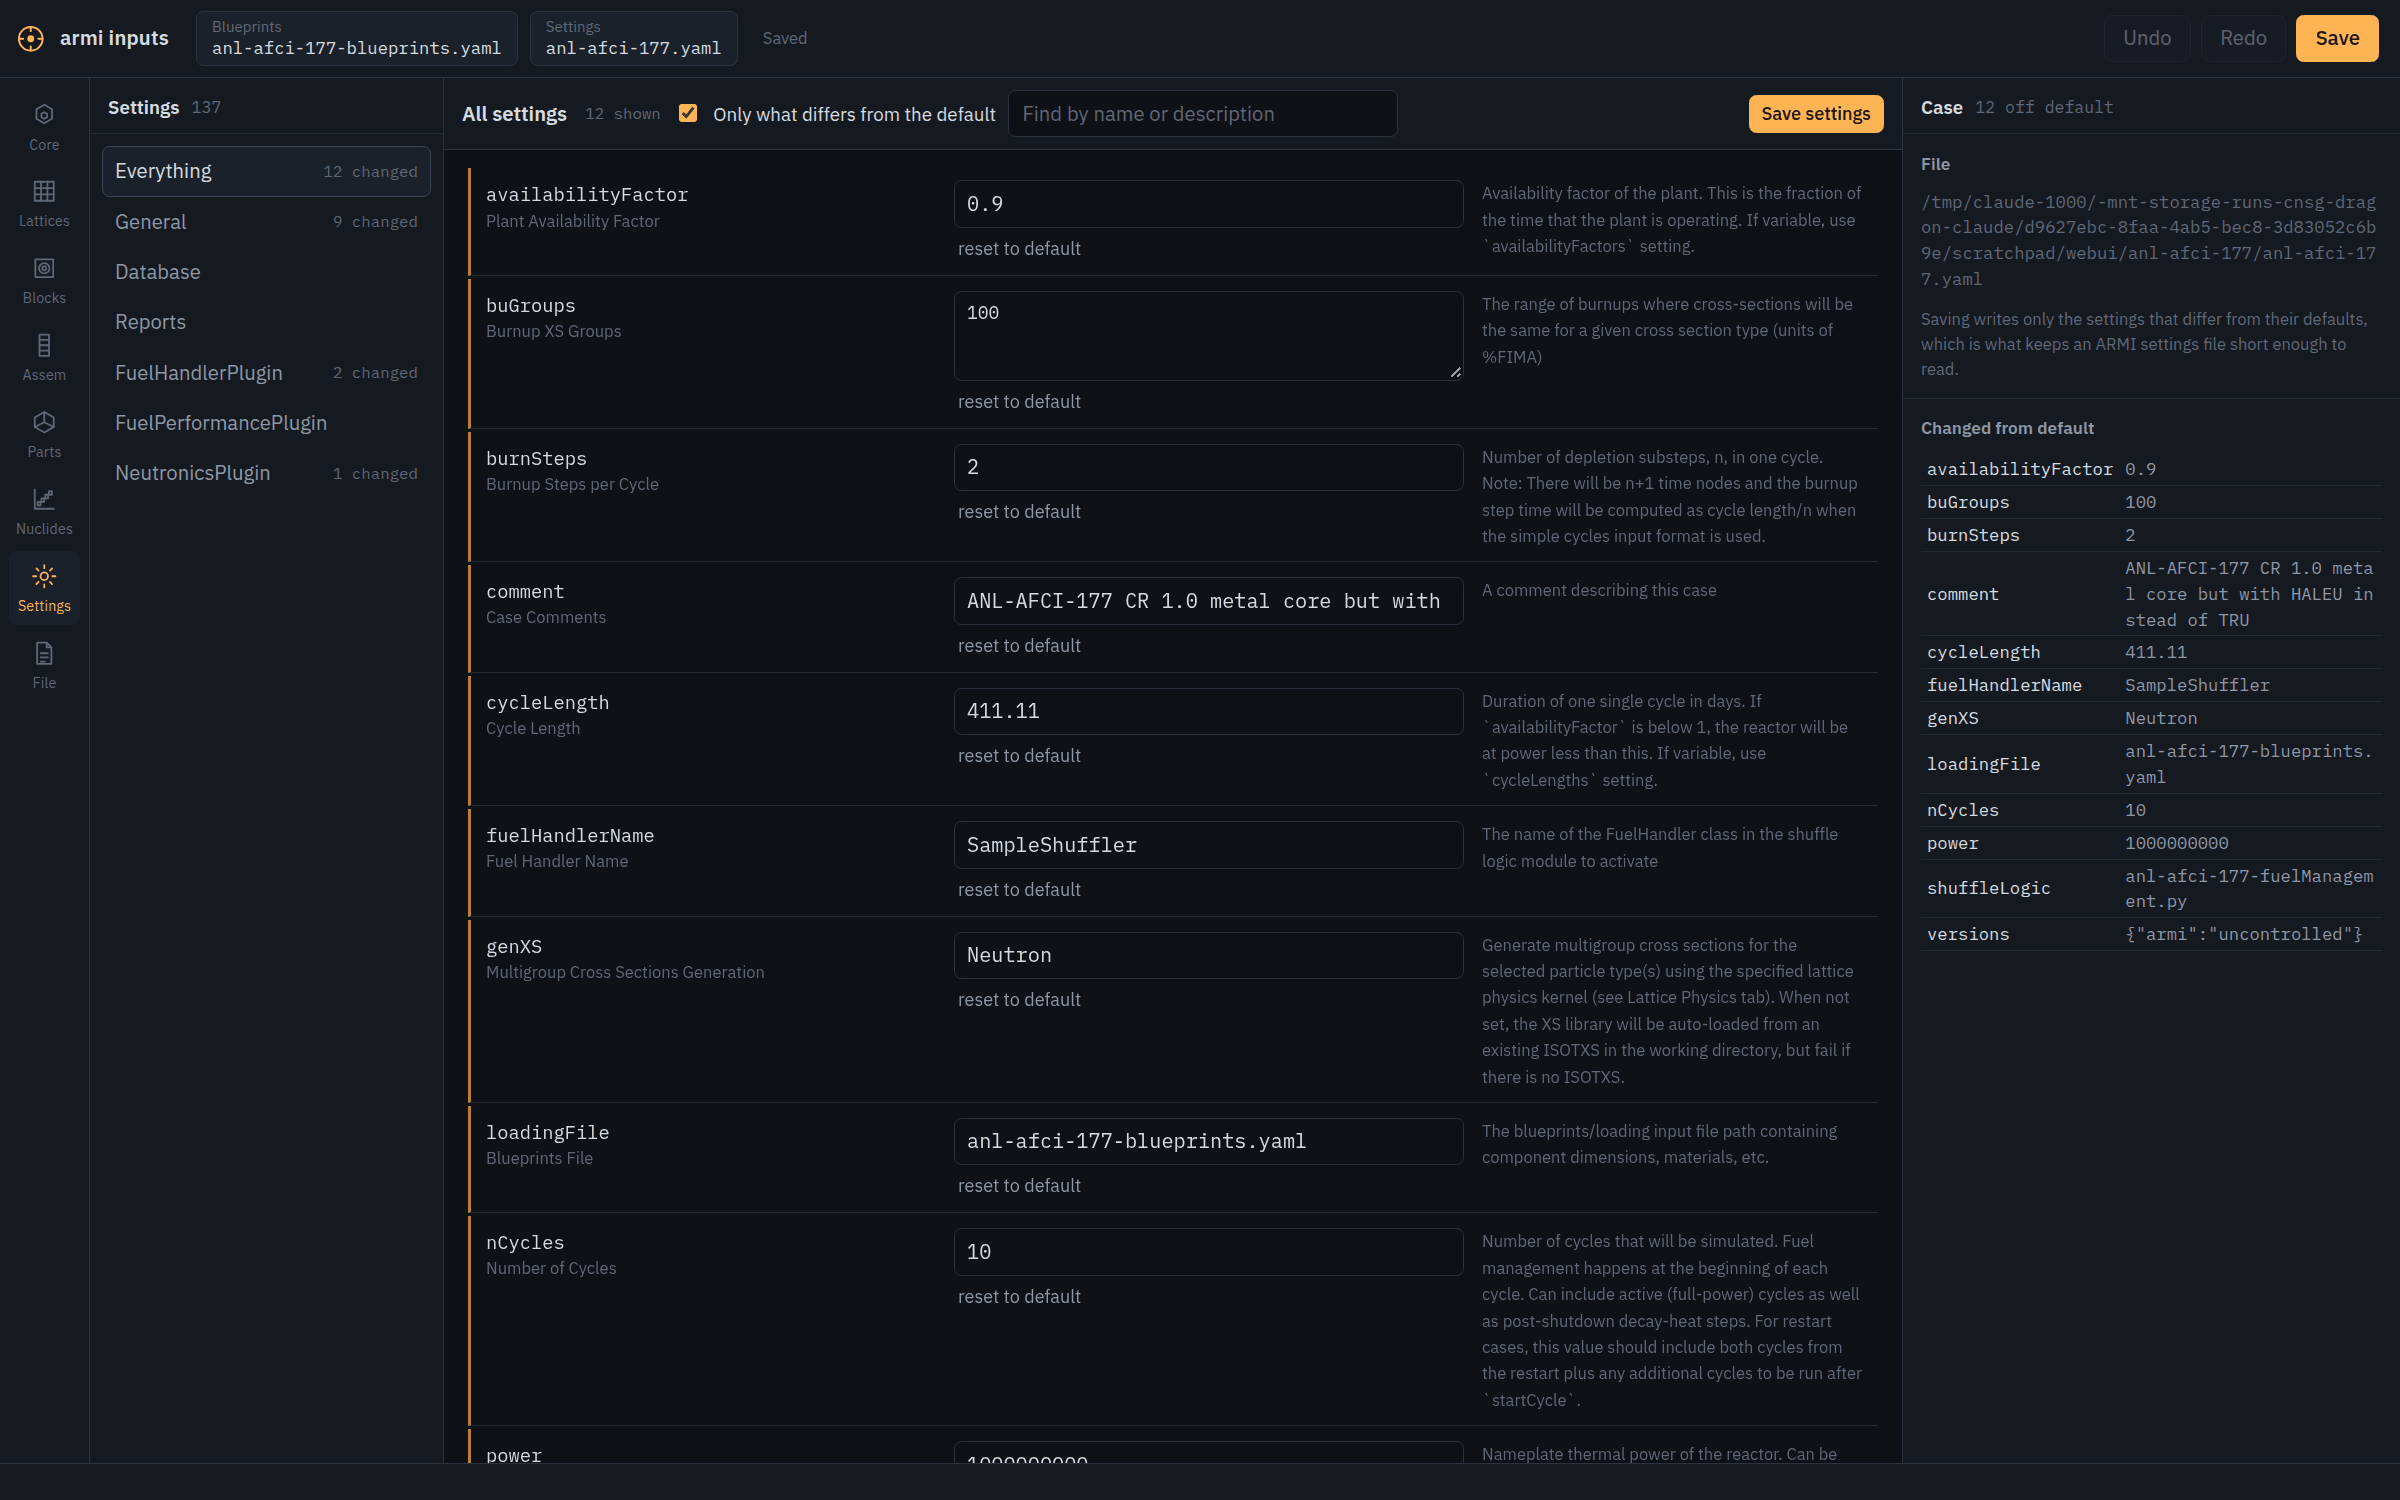
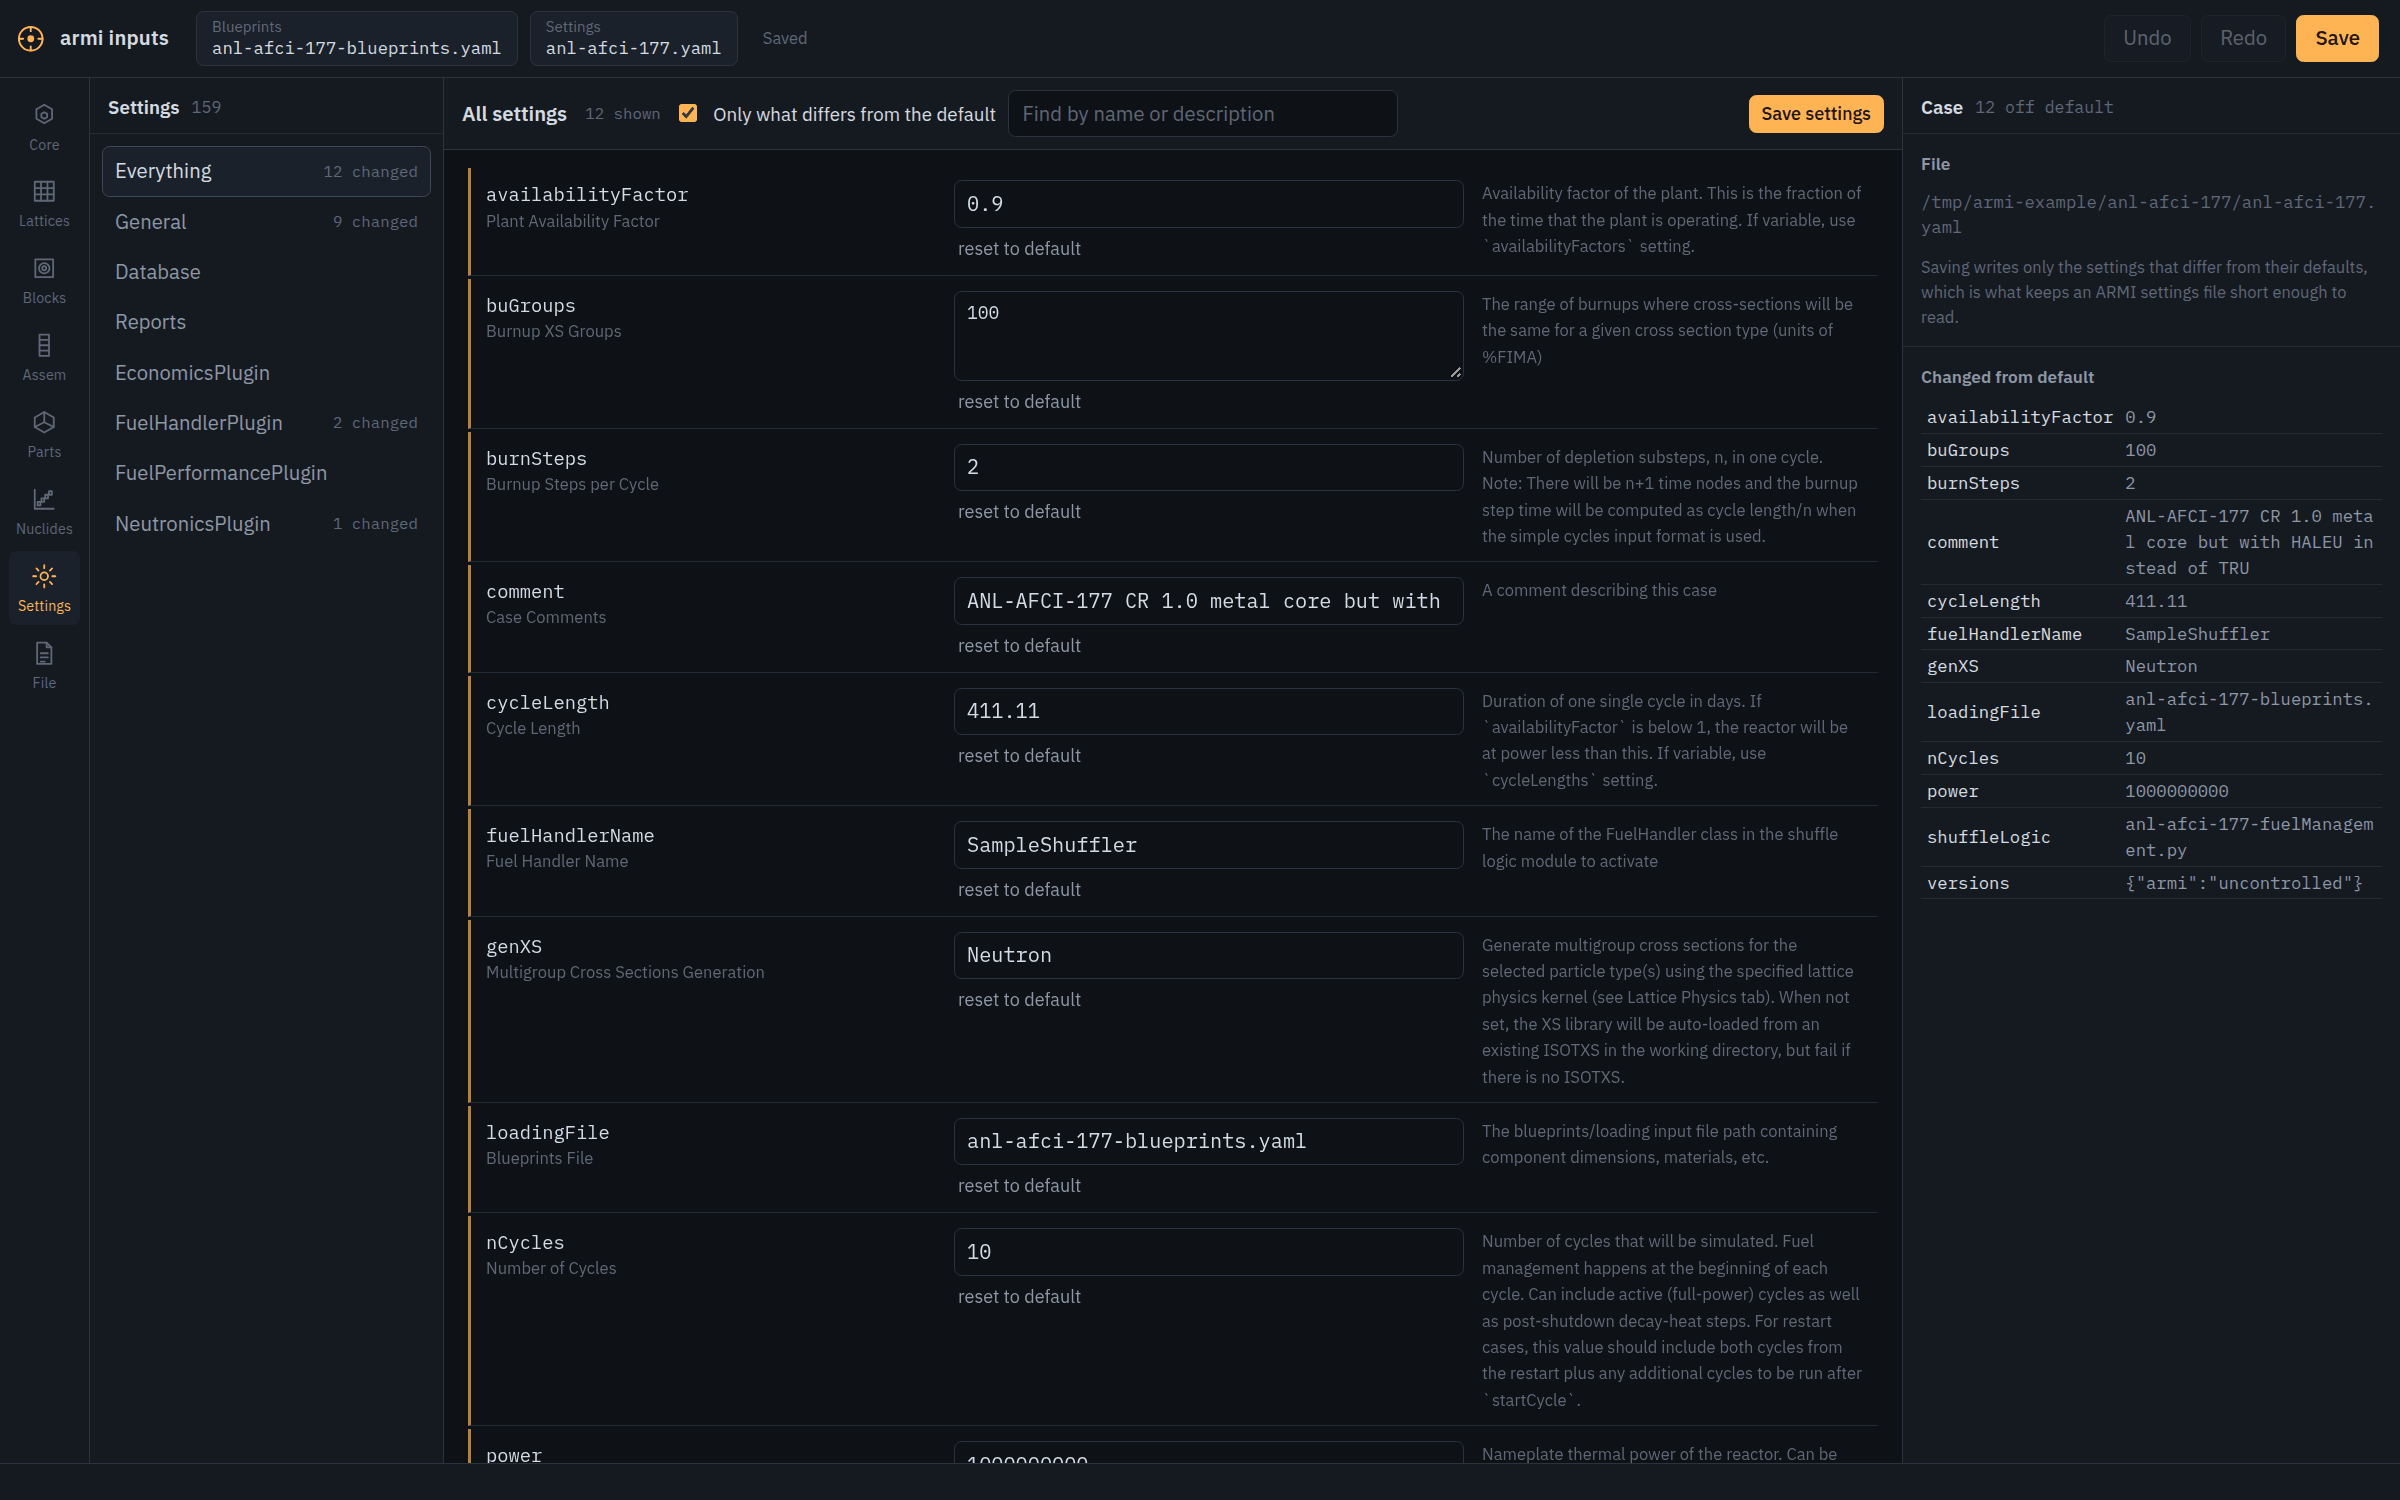
Docs: a user guide page for the input editor, and show it to new users
- A new "The input editor" page, right after Inputs in the user guide: how to start it (locally, over SSH, on
  another interface), a tour of each view with a screenshot of the core map, lattices, blocks, assemblies,
  nuclides and settings, and how a plugin gives its settings a better control.
- The Inputs page points there with a screenshot instead of describing the editor itself.
- The README quick start opens one of the test reactors in the editor, with a screenshot of its core map.
- The settings screenshot is retaken without a scratch path in it; the nuclides one is new.

Changed region(s): [[0.7812, 0.1227, 1.0, 0.644], [0.0625, 0.2453, 0.1562, 0.368]]

diff --git a/doc/user/input_editor.rst b/doc/user/input_editor.rst
@@ -1,0 +1,133 @@
+****************
+The input editor
+****************
+
+ARMI comes with a browser-based editor for its inputs. Point it at a case and you can see the core you have
+described, paint assemblies onto the map, draw block cross sections to scale, stack assemblies, and change
+settings, all without reading YAML. It is the fastest way to get a feel for an ARMI model, and the easiest way to
+check that the inputs say what you meant.
+
+.. figure:: /.static/inputEditor-core.png
+   :width: 100%
+   :alt: The core map view of the input editor
+
+   The core map of the ANL-AFCI-177 test reactor, a one-third-symmetric hexagonal core, with the palette of
+   assembly designs on the left and their counts on the right.
+
+The editor is a front end to the same text files described in :doc:`inputs`. Anything it writes reads like
+hand-written input, and anything written by hand opens in it, so you can move between the editor and a text
+editor freely. ARMI itself neither knows nor cares which one you used.
+
+
+Starting it
+===========
+Open a case settings file, which brings its blueprints along, or a blueprints file on its own::
+
+    $ python -m armi gui my-case.yaml
+
+Applications built on ARMI get the same command, e.g. ``myapp gui my-case.yaml``, and their own materials,
+settings and plugins appear in the editor without any extra wiring.
+
+The server is part of ARMI and uses only the Python standard library, and the page is plain JavaScript, so there
+is nothing else to install. It binds to your machine's loopback interface and holds one case at a time; nothing
+is sent anywhere else. A few options cover other setups:
+
+``--no-browser``
+    Print the address instead of opening a browser. On a remote machine, forward the port over SSH (for example
+    ``ssh -L 8000:localhost:8000 cluster``, with ``--port 8000``) and open the address locally.
+``--port``
+    Serve on a particular port instead of any free one.
+``--host``
+    Serve on another interface, e.g. ``0.0.0.0`` to reach the editor from another machine. The address carries a
+    session token, so only someone with the full link can use it.
+
+
+A tour of the views
+===================
+The rail on the left switches views. Each one keeps its selection in the address bar, so a reload comes back to
+the same place and a link points at the thing you were looking at. Undo and Redo cover every change, and the
+editor marks the case as unsaved until you press Save.
+
+Core
+----
+The core map, shown above. Pick an assembly design from the palette and click or drag to place it; Erase,
+Pick and Inspect do what they say. Right-click a position for ring actions, alt-drag to pan and ctrl-scroll to
+zoom. *Expand to full* turns a symmetric partial core into a full one. The panel on the right sets the grid's
+geometry, symmetry and pitch, and keeps a running count of every assembly type.
+
+Lattices
+--------
+.. figure:: /.static/inputEditor-lattice.png
+   :width: 100%
+   :alt: The pin lattice view of the input editor
+
+   The MOX assembly lattice of the C5G7 benchmark: low, medium and high enrichment MOX pins, guide tubes and a
+   central fission chamber.
+
+Pin maps and every other grid in the file are edited position by position the same way. A lattice ID is only a
+label: what a position holds is whatever components claim that label, in every block drawn on the lattice. The
+inspector follows that chain for you. Pick a position to see which components claim it, what they are made of
+and which blocks use the lattice.
+
+Blocks
+------
+.. figure:: /.static/inputEditor-block.png
+   :width: 100%
+   :alt: The block view of the input editor
+
+   The C5G7 MOX block drawn from its component definitions, with the area of each component and its share of the
+   block.
+
+The cross section is drawn to scale from the component definitions, at cold input dimensions, and redraws as you
+type, even while a block is too incomplete to build. Next to it is the area of every component and its share of
+the block. A wrong radius, pitch or multiplicity is usually obvious here long before it would show up in a run.
+Click a component in the drawing or the table to edit it.
+
+Assemblies
+----------
+.. figure:: /.static/inputEditor-assembly.png
+   :width: 100%
+   :alt: The assembly view of the input editor
+
+   An ANL-AFCI-177 inner fuel assembly: its axial stack, and the heights, cross section types, mesh and enrichment
+   of each position.
+
+An assembly is a set of parallel lists: blocks, heights, cross section types, mesh points and material
+modifications, all read by position. The editor never lets them get out of step. Positions are inserted above or
+below, dragged to reorder and deleted everywhere at once, and modifications such as enrichment by elevation are
+shown as a column you can read at a glance.
+
+Parts, Nuclides and File
+------------------------
+.. figure:: /.static/inputEditor-nuclides.png
+   :width: 100%
+   :alt: The nuclide flags view of the input editor
+
+   Nuclide flags for C5G7: which nuclides get cross sections, which deplete, and which elements expand into
+   isotopes.
+
+*Parts* edits the component definitions that are shared between blocks, and component groups. *Nuclides* holds
+the nuclide flags, with filters for depleting, cross section and expanded nuclides, and the custom isotopics that
+materials can refer to. *File* shows exactly what Save would write, so it doubles as a preview of a save and a
+quick way to copy a section into another case.
+
+Settings
+--------
+.. figure:: /.static/inputEditor-settings.png
+   :width: 100%
+   :alt: The settings view of the input editor
+
+   The ANL-AFCI-177 case settings, filtered to the twelve that differ from their defaults.
+
+A case has a few hundred settings and you usually came to change a couple of them. Settings are grouped by the
+plugin that defines them, filtered by default to the ones that differ from their defaults, and searchable by name
+and description. Every setting shows its own description. Saving writes only the settings that differ from their
+defaults, which keeps a settings file short enough to read.
+
+
+Teaching the editor about your settings
+=======================================
+Most settings need nothing more than their type, default and options to get a sensible control. For the few that
+do not, such as a list with its own grammar or a table of entries, the plugin that defines them can describe a
+better control: a choice, several choices, or a table with typed columns. Give the plugin class a
+``defineSettingEditors(cs)`` static method; :py:mod:`armi.webui.settingseditors` describes the options.

diff --git a/doc/user/inputs.rst b/doc/user/inputs.rst
@@ -64,21 +64,17 @@ Many settings are provided by the ARMI Framework, and others are defined by vari
 
 The input editor
 ----------------
-ARMI includes a browser-based editor for its inputs, a front end to the same text files: you can use it or not, and
-ARMI neither knows nor cares. Open a case (or a blueprints file on its own) with::
+You do not have to write these files by hand. ARMI's browser-based :doc:`input editor <input_editor>` opens a case
+and lets you paint the core map, edit pin lattices, draw block cross sections to scale, stack assemblies and change
+settings, then writes the same YAML back out::
 
     $ python -m armi gui my-case.yaml
 
-It edits core maps and pin lattices on hexagonal and Cartesian grids, block cross sections, assembly axial stacks,
-nuclide flags, custom isotopics and case settings, all against the real blueprint object model, and writes back plain
-YAML that reads like hand-written input. The server binds to loopback and nothing leaves the machine; ``--no-browser``
-prints the address instead of opening it, for use over SSH.
-
-.. figure:: /.static/inputEditor-core.png
+.. figure:: /.static/inputEditor-block.png
    :width: 100%
-   :alt: The core map view of the input editor
+   :alt: The block view of the input editor
 
-   The core map view: assemblies placed on the grid from the palette, with the symmetry and the counts of each type.
+   A block drawn from its component definitions as you edit them. See :doc:`input_editor` for a tour of every view.
 
 Note that one settings input file is required for each ARMI case, though many ARMI cases can refer to the same
 Blueprints, Core Map, and Fuel Management inputs.

diff --git a/README.rst b/README.rst
@@ -75,9 +75,19 @@ The ARMI tests are meant to be run using `pytest <https://docs.pytest.org/en/8.0
     $ pip install -e ".[test]"
     $ pytest -n 4 armi
 
-To build the HTML documentation locally, install the ``docs`` extra (plus `pandoc <https://pandoc.org/>`_ and
-`Graphviz <https://graphviz.org/>`_ from your system package manager), inject placeholder test results, and run Sphinx
-from the ``doc`` folder::
+To see what an ARMI model looks like, open one of the test reactors in the `input editor`_, a browser-based
+editor for ARMI inputs that comes with it::
+
+    $ uv run armi gui armi/testing/reactors/anl-afci-177/anl-afci-177.yaml
+
+.. figure:: https://raw.githubusercontent.com/partofthething/armi/main/doc/.static/inputEditor-core.png
+   :alt: The core map of a hexagonal test reactor in ARMI's input editor
+
+   The core map of the ANL-AFCI-177 test reactor in the input editor. It also draws pin lattices, block cross
+   sections and assembly stacks, and edits settings.
+
+To build the HTML documentation locally, install the ``docs`` extra (plus `Graphviz <https://graphviz.org/>`_ from your
+system package manager), inject placeholder test results, and run Sphinx from the ``doc`` folder::
 
     $ uv sync --extra test --extra docs
     $ uv run python doc/skip_str.py
@@ -361,3 +371,4 @@ that have MIT or BSD licenses.
 .. _tutorials: https://partofthething.github.io/armi/tutorials/index.html
 .. _User Manual: https://partofthething.github.io/armi/user/index.html
 .. _release notes: https://partofthething.github.io/armi/release/index.html
+.. _input editor: https://partofthething.github.io/armi/user/input_editor.html

diff --git a/doc/user/index.rst b/doc/user/index.rst
@@ -12,6 +12,7 @@ ARMI input files, running various kinds of ARMI runs, analyzing ARMI output file
    :numbered:
 
    inputs
+   input_editor
    outputs
    settings_report
    params_report
